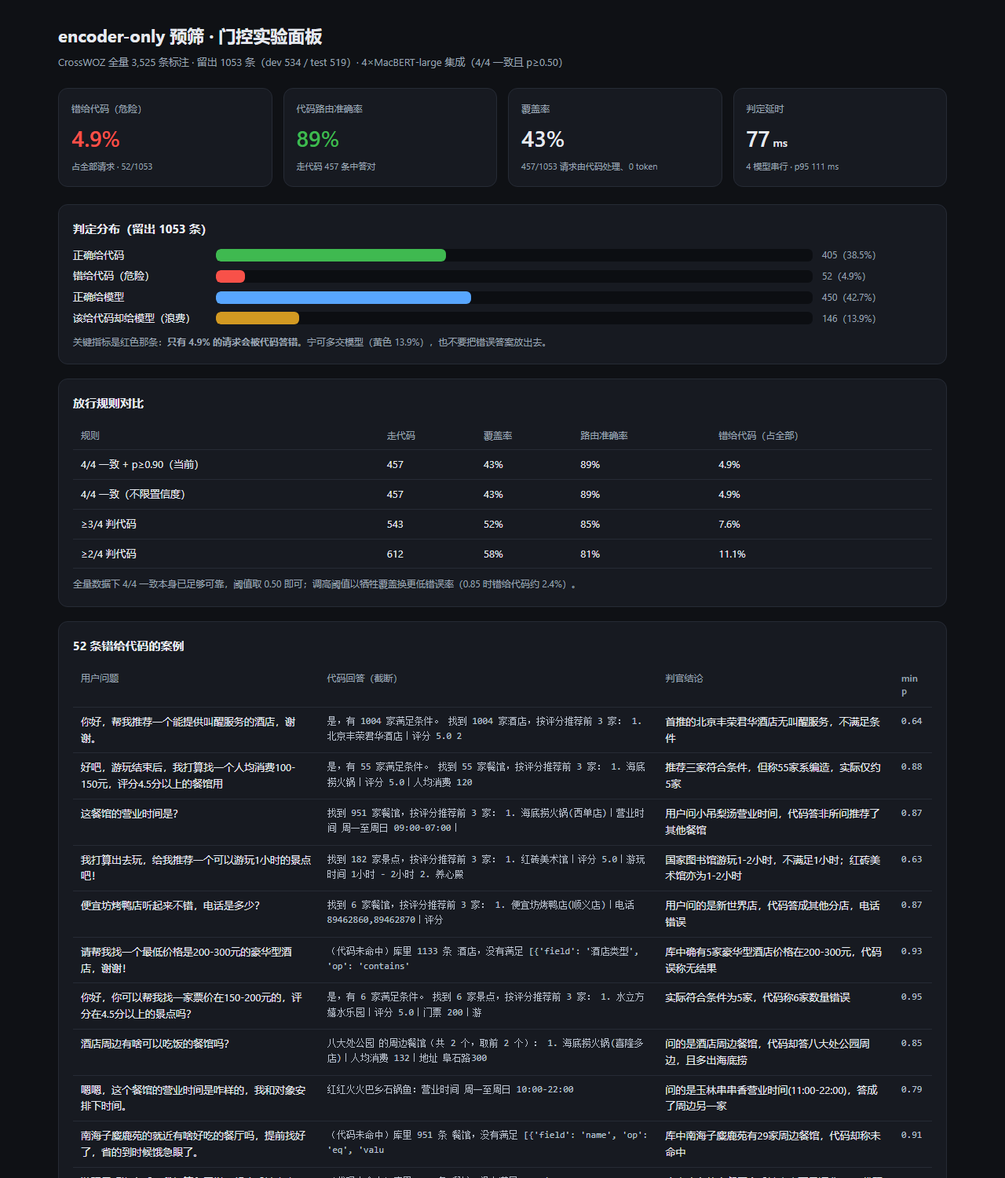
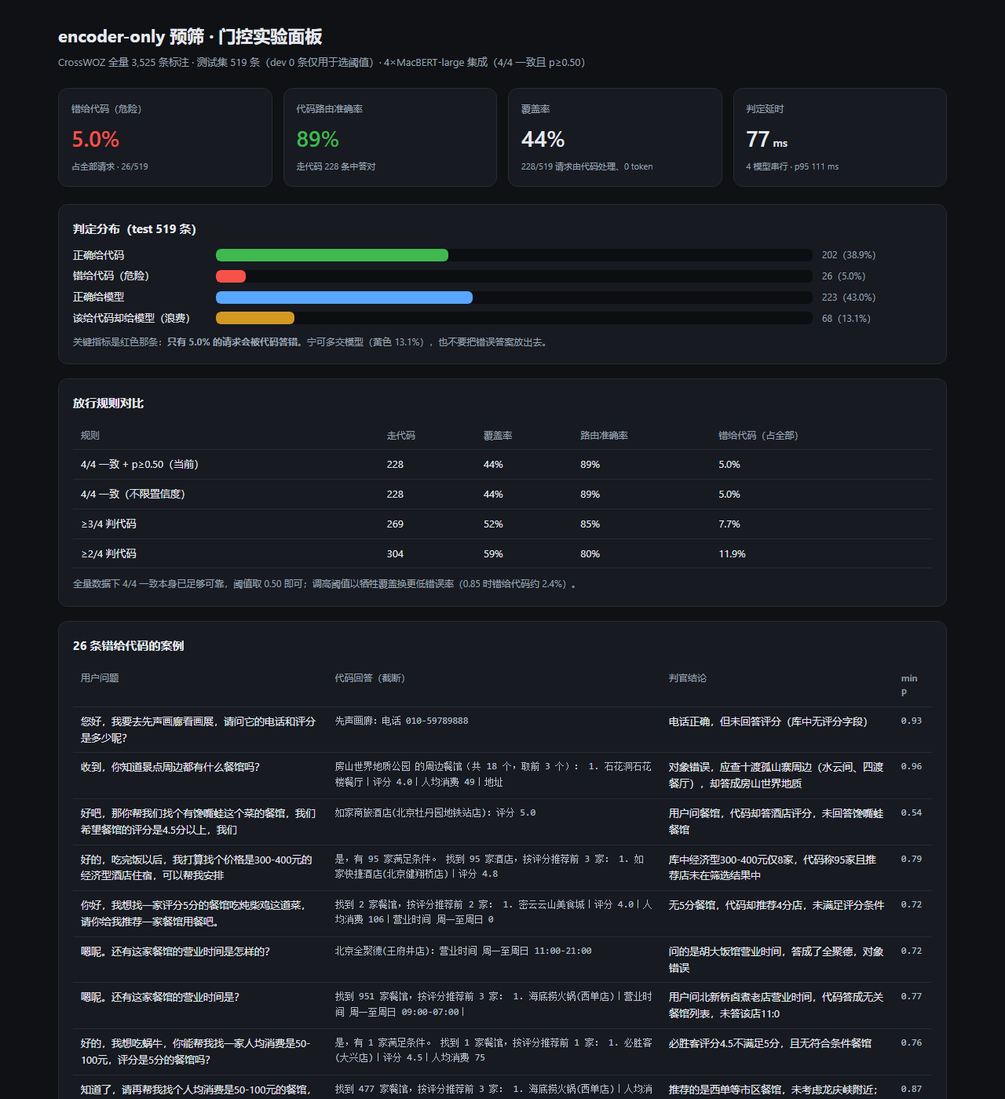
成绩口径改为只看 test 519 条（dev 仅用于选阈值），同步面板与报告

diff --git a/reports/dashboard.html b/reports/dashboard.html
@@ -30,88 +30,39 @@
   .note { color:var(--dim); font-size:12px; margin-top:10px; }
 </style></head><body><div class="wrap">
   <h1>encoder-only 预筛 · 门控实验面板</h1>
-  <div class="sub">CrossWOZ 全量 3,525 条标注 · 留出 1053 条（dev 534 / test 519）· 4×MacBERT-large 集成（4/4 一致且 p≥0.50）</div>
+  <div class="sub">CrossWOZ 全量 3,525 条标注 · 测试集 519 条（dev 0 条仅用于选阈值）· 4×MacBERT-large 集成（4/4 一致且 p≥0.50）</div>
 
   <div class="kpis">
-    <div class="kpi"><div class="label">错给代码（危险）</div><div class="value" style="color:var(--red)">4.9%</div>
-      <div class="hint">占全部请求 · 52/1053</div></div>
+    <div class="kpi"><div class="label">错给代码（危险）</div><div class="value" style="color:var(--red)">5.0%</div>
+      <div class="hint">占全部请求 · 26/519</div></div>
     <div class="kpi"><div class="label">代码路由准确率</div><div class="value" style="color:var(--green)">89%</div>
-      <div class="hint">走代码 457 条中答对</div></div>
-    <div class="kpi"><div class="label">覆盖率</div><div class="value">43%</div>
-      <div class="hint">457/1053 请求由代码处理、0 token</div></div>
+      <div class="hint">走代码 228 条中答对</div></div>
+    <div class="kpi"><div class="label">覆盖率</div><div class="value">44%</div>
+      <div class="hint">228/519 请求由代码处理、0 token</div></div>
     <div class="kpi"><div class="label">判定延时</div><div class="value">77<span style="font-size:14px"> ms</span></div>
       <div class="hint">4 模型串行 · p95 111 ms</div></div>
   </div>
 
-  <div class="card"><h2>判定分布（留出 1053 条）</h2>
-    <div class="bar-row"><span class="bar-label">正确给代码</span><span class="bar-track"><span class="bar-fill" style="width:38.5%;background:var(--green)"></span></span><span class="bar-value">405（38.5%）</span></div>
-    <div class="bar-row"><span class="bar-label">错给代码（危险）</span><span class="bar-track"><span class="bar-fill" style="width:4.9%;background:var(--red)"></span></span><span class="bar-value">52（4.9%）</span></div>
-    <div class="bar-row"><span class="bar-label">正确给模型</span><span class="bar-track"><span class="bar-fill" style="width:42.7%;background:var(--blue)"></span></span><span class="bar-value">450（42.7%）</span></div>
-    <div class="bar-row"><span class="bar-label">该给代码却给模型（浪费）</span><span class="bar-track"><span class="bar-fill" style="width:13.9%;background:var(--amber)"></span></span><span class="bar-value">146（13.9%）</span></div>
-    <div class="note">关键指标是红色那条：<b>只有 4.9% 的请求会被代码答错</b>。宁可多交模型（黄色 13.9%），也不要把错误答案放出去。</div>
+  <div class="card"><h2>判定分布（test 519 条）</h2>
+    <div class="bar-row"><span class="bar-label">正确给代码</span><span class="bar-track"><span class="bar-fill" style="width:38.9%;background:var(--green)"></span></span><span class="bar-value">202（38.9%）</span></div>
+    <div class="bar-row"><span class="bar-label">错给代码（危险）</span><span class="bar-track"><span class="bar-fill" style="width:5.0%;background:var(--red)"></span></span><span class="bar-value">26（5.0%）</span></div>
+    <div class="bar-row"><span class="bar-label">正确给模型</span><span class="bar-track"><span class="bar-fill" style="width:43.0%;background:var(--blue)"></span></span><span class="bar-value">223（43.0%）</span></div>
+    <div class="bar-row"><span class="bar-label">该给代码却给模型（浪费）</span><span class="bar-track"><span class="bar-fill" style="width:13.1%;background:var(--amber)"></span></span><span class="bar-value">68（13.1%）</span></div>
+    <div class="note">关键指标是红色那条：<b>只有 5.0% 的请求会被代码答错</b>。宁可多交模型（黄色 13.1%），也不要把错误答案放出去。</div>
   </div>
 
   <div class="card"><h2>放行规则对比</h2>
     <table><thead><tr><th>规则</th><th>走代码</th><th>覆盖率</th><th>路由准确率</th><th>错给代码（占全部）</th></tr></thead>
-    <tbody><tr><td>4/4 一致 + p≥0.50（当前）</td><td>457</td><td>43%</td><td>89%</td><td>4.9%</td></tr>
-<tr><td>4/4 一致（不限置信度）</td><td>457</td><td>43%</td><td>89%</td><td>4.9%</td></tr>
-<tr><td>≥3/4 判代码</td><td>543</td><td>52%</td><td>85%</td><td>7.6%</td></tr>
-<tr><td>≥2/4 判代码</td><td>612</td><td>58%</td><td>81%</td><td>11.1%</td></tr></tbody></table>
+    <tbody><tr><td>4/4 一致 + p≥0.50（当前）</td><td>228</td><td>44%</td><td>89%</td><td>5.0%</td></tr>
+<tr><td>4/4 一致（不限置信度）</td><td>228</td><td>44%</td><td>89%</td><td>5.0%</td></tr>
+<tr><td>≥3/4 判代码</td><td>269</td><td>52%</td><td>85%</td><td>7.7%</td></tr>
+<tr><td>≥2/4 判代码</td><td>304</td><td>59%</td><td>80%</td><td>11.9%</td></tr></tbody></table>
     <div class="note">全量数据下 4/4 一致本身已足够可靠，阈值取 0.50 即可；调高阈值以牺牲覆盖换更低错误率（0.85 时错给代码约 2.4%）。</div>
   </div>
 
-  <div class="card"><h2>52 条错给代码的案例</h2>
+  <div class="card"><h2>26 条错给代码的案例</h2>
     <table><thead><tr><th>用户问题</th><th>代码回答（截断）</th><th>判官结论</th><th>min P</th></tr></thead>
-    <tbody><tr><td>你好，帮我推荐一个能提供叫醒服务的酒店，谢谢。</td><td class='mono'>是，有 1004 家满足条件。
-找到 1004 家酒店，按评分推荐前 3 家：
-1. 北京丰荣君华酒店｜评分 5.0
-2</td><td>首推的北京丰荣君华酒店无叫醒服务，不满足条件</td><td class='mono'>0.64</td></tr>
-<tr><td>好吧，游玩结束后，我打算找一个人均消费100-150元，评分4.5分以上的餐馆用</td><td class='mono'>是，有 55 家满足条件。
-找到 55 家餐馆，按评分推荐前 3 家：
-1. 海底捞火锅｜评分 5.0｜人均消费 120</td><td>推荐三家符合条件，但称55家系编造，实际仅约5家</td><td class='mono'>0.88</td></tr>
-<tr><td>这餐馆的营业时间是？</td><td class='mono'>找到 951 家餐馆，按评分推荐前 3 家：
-1. 海底捞火锅(西单店)｜营业时间 周一至周日 09:00-07:00｜</td><td>用户问小吊梨汤营业时间，代码答非所问推荐了其他餐馆</td><td class='mono'>0.87</td></tr>
-<tr><td>我打算出去玩，给我推荐一个可以游玩1小时的景点吧！</td><td class='mono'>找到 182 家景点，按评分推荐前 3 家：
-1. 红砖美术馆｜评分 5.0｜游玩时间 1小时 - 2小时
-2. 养心殿</td><td>国家图书馆游玩1-2小时，不满足1小时；红砖美术馆亦为1-2小时</td><td class='mono'>0.63</td></tr>
-<tr><td>便宜坊烤鸭店听起来不错，电话是多少？</td><td class='mono'>找到 6 家餐馆，按评分推荐前 3 家：
-1. 便宜坊烤鸭店(顺义店)｜电话 89462860,89462870｜评分 </td><td>用户问的是新世界店，代码答成其他分店，电话错误</td><td class='mono'>0.87</td></tr>
-<tr><td>请帮我找一个最低价格是200-300元的豪华型酒店，谢谢！</td><td class='mono'>（代码未命中）库里 1133 条 酒店，没有满足 [{'field': '酒店类型', 'op': 'contains'</td><td>库中确有5家豪华型酒店价格在200-300元，代码误称无结果</td><td class='mono'>0.93</td></tr>
-<tr><td>你好，你可以帮我找一家票价在150-200元的，评分在4.5分以上的景点吗？</td><td class='mono'>是，有 6 家满足条件。
-找到 6 家景点，按评分推荐前 3 家：
-1. 水立方嬉水乐园｜评分 5.0｜门票 200｜游</td><td>实际符合条件为5家，代码称6家数量错误</td><td class='mono'>0.95</td></tr>
-<tr><td>酒店周边有啥可以吃饭的餐馆吗？</td><td class='mono'>八大处公园 的周边餐馆（共 2 个，取前 2 个）：
-1. 海底捞火锅(喜隆多店)｜人均消费 132｜地址 阜石路300</td><td>问的是酒店周边餐馆，代码却答八大处公园周边，且多出海底捞</td><td class='mono'>0.85</td></tr>
-<tr><td>嗯嗯，这个餐馆的营业时间是咋样的，我和对象安排下时间。</td><td class='mono'>红红火火巴乡石锅鱼：营业时间 周一至周日 10:00-22:00</td><td>问的是玉林串串香营业时间(11:00-22:00)，答成了周边另一家</td><td class='mono'>0.79</td></tr>
-<tr><td>南海子麋鹿苑的就近有啥好吃的餐厅吗，提前找好了，省的到时候饿急眼了。</td><td class='mono'>（代码未命中）库里 951 条 餐馆，没有满足 [{'field': 'name', 'op': 'eq', 'valu</td><td>库中南海子麋鹿苑有29家周边餐馆，代码却称未命中</td><td class='mono'>0.91</td></tr>
-<tr><td>游玩昆明湖之后，我打算和同学一起吃香辣牛肉面，有没有评分4分以上的餐馆呢？</td><td class='mono'>（代码未命中）库里 951 条 餐馆，没有满足 [{'field': 'name', 'op': 'eq', 'valu</td><td>库中确有故宫餐厅含香辣牛肉面且评分4.8，代码误判为无</td><td class='mono'>0.65</td></tr>
-<tr><td>再帮我找个景点，票价20元以下，可以玩3小时 - 4小时，评分是4.5分以上的，</td><td class='mono'>找到 16 家景点，按评分推荐前 3 家：
-1. 小汤山镇｜评分 5.0｜门票 0｜游玩时间 3天
-2. 房山世界地质公</td><td>推荐景点游玩时间3天，不符3-4小时条件</td><td class='mono'>0.51</td></tr>
-<tr><td>你好，帮我找一家人均消费在50-100元，油麦菜做的好的餐馆。</td><td class='mono'>找到 7 家餐馆，按评分推荐前 3 家：
-1. 千汇丰渝州干锅鸭头｜人均消费 82｜评分 5.0｜营业时间 周一至周日 </td><td>实际8家符合，代码称7家且漏列评分更高的阳坊、雁栖仙翁等</td><td class='mono'>0.91</td></tr>
-<tr><td>好的。接到领导要和他吃点便饭，想找一家评分是4.5分以上、人均消费是100-15</td><td class='mono'>是，有 55 家满足条件。
-找到 55 家餐馆，按评分推荐前 3 家：
-1. 海底捞火锅｜评分 5.0｜人均消费 120</td><td>称55家系编造，实际仅约2家符合条件</td><td class='mono'>0.86</td></tr>
-<tr><td>好，那景点周边有餐馆吗？</td><td class='mono'>（代码未命中）库里没有 北京布提克精品酒店 的周边餐馆数据</td><td>蟹岛嘉年华周边确有2家餐馆，代码称无数据错误</td><td class='mono'>0.51</td></tr>
-<tr><td>收到，那你知道这个餐馆的营业时间吗？</td><td class='mono'>阳坊胜利涮羊肉(晋元庄店)：营业时间 周一至周日 10:00-22:00</td><td>用户问的是蓝海钟鼎楼食府，代码答成了阳坊胜利涮羊肉</td><td class='mono'>0.83</td></tr>
-<tr><td>你好，请给我推荐一家人均消费50-100元的餐馆吃烤全羊、烤羊背这俩菜。</td><td class='mono'>找到 4 家餐馆，按评分推荐前 3 家：
-1. 呼伦贝尔草原蒙古包美食｜人均消费 57｜评分 5.0｜营业时间 11:0</td><td>三家均无烤羊背，唯一有烤羊背的九十九顶毡房人均220超预算，未满足双</td><td class='mono'>0.78</td></tr>
-<tr><td>完事我还要找个4.5分以上的餐馆，然后餐馆的推荐菜要有枣糕牛舌饼。</td><td class='mono'>（代码未命中）库里 951 条 餐馆，没有满足 [{'field': '推荐菜', 'op': 'contains', </td><td>库中稻香村灯市口店5.0分且推荐菜含松仁枣糕、牛舌饼，代码误判无结果</td><td class='mono'>0.55</td></tr>
-<tr><td>餐馆的周边有哪些餐馆啊？</td><td class='mono'>北京首都宾馆 的周边餐馆（共 134 个，取前 3 个）：
-1. 护国寺小吃店（护国寺总店）｜评分 4.3｜人均消费 2</td><td>对象错：用户问的是四季民福周边餐馆，代码答成首都宾馆周边</td><td class='mono'>0.88</td></tr>
-<tr><td>好的，游玩结束后我想找一个餐馆，想吃精品烤鸭，最好人均消费在100元到150元之</td><td class='mono'>找到 2 家餐馆，按评分推荐前 2 家：
-1. 全聚德烤鸭店(奥运村店)｜人均消费 150｜评分 4.5｜营业时间 10</td><td>第二家评分3.5不满足4.5分条件，且漏掉多家符合的店</td><td class='mono'>0.81</td></tr>
-<tr><td>智化寺的电话是多少，好久没拜拜佛了，我们哥俩都想去。</td><td class='mono'>（代码未命中）库里 951 条 餐馆，没有满足 [{'field': 'name', 'op': 'eq', 'valu</td><td>智化寺存在且电话010-65253670，代码误在餐馆库查而称未命中</td><td class='mono'>0.86</td></tr>
-<tr><td>看着我都快流口水了，用餐结束后，帮我们找个经济型的酒店，我希望它的评分是4.5分</td><td class='mono'>北京天伦王朝酒店：评分 4.5</td><td>天伦王朝是豪华型非经济型，且未按经济型+4.5筛选</td><td class='mono'>0.95</td></tr>
-<tr><td>吃完饭我想找个一个门票价格在200元以上的景点游玩，给推荐一个吧。</td><td class='mono'>找到 7 家景点，按评分推荐前 3 家：
-1. 水立方嬉水乐园｜门票 200｜评分 5.0｜游玩时间 3小时
-2. 篱苑</td><td>库中门票&gt;200的景点仅温都水城温泉(298)，代码所列篱苑图书馆、</td><td class='mono'>0.95</td></tr>
-<tr><td>你好，我想去酒店住宿。请帮我找一家评分是4.5分以上的酒店，这家酒店最好有吹风机</td><td class='mono'>（代码未命中）问句用“这家/它”指代，但无法确定指代的门店</td><td>无多轮指代，用户是首问，代码误判未命中，实际有多家符合条件</td><td class='mono'>0.70</td></tr>
-<tr><td>恩，吃饱饭想去消化食去。帮我推荐一个评分是4.5分以上，票价是100-150元的</td><td class='mono'>找到 2 家景点，按评分推荐前 2 家：
-1. 北京杜莎夫人蜡像馆｜评分 4.8｜门票 145｜游玩时间 2小时 - 3</td><td>杜莎夫人游玩2-3小时超2小时，且漏掉红砖美术馆等符合条件项</td><td class='mono'>0.60</td></tr>
-<tr><td>吃完饭我要去99优选酒店(北京蓟门桥店)住宿，请告诉我这家酒店的价格是多少钱啊？</td><td class='mono'>（代码未命中）库里 1133 条 酒店，没有满足 [{'field': 'name', 'op': 'eq', 'val</td><td>该酒店存在，价格202元，代码误称无此店</td><td class='mono'>0.68</td></tr>
-<tr><td>您好，我要去先声画廊看画展，请问它的电话和评分是多少呢？</td><td class='mono'>先声画廊：电话 010-59789888</td><td>电话正确，但未回答评分（库中无评分字段）</td><td class='mono'>0.93</td></tr>
+    <tbody><tr><td>您好，我要去先声画廊看画展，请问它的电话和评分是多少呢？</td><td class='mono'>先声画廊：电话 010-59789888</td><td>电话正确，但未回答评分（库中无评分字段）</td><td class='mono'>0.93</td></tr>
 <tr><td>收到，你知道景点周边都有什么餐馆吗？</td><td class='mono'>房山世界地质公园 的周边餐馆（共 18 个，取前 3 个）：
 1. 石花洞石花楼餐厅｜评分 4.0｜人均消费 49｜地址</td><td>对象错误，应查十渡孤山寨周边（水云间、四渡餐厅），却答成房山世界地质</td><td class='mono'>0.96</td></tr>
 <tr><td>好吧，那你帮我们找个有馋嘴蛙这个菜的餐馆，我们希望餐馆的评分是4.5分以上，我们</td><td class='mono'>如家商旅酒店(北京牡丹园地铁站店)：评分 5.0</td><td>用户问餐馆，代码却答酒店评分，未回答馋嘴蛙餐馆</td><td class='mono'>0.54</td></tr>
@@ -180,7 +131,7 @@
       <tr><td>标签来源</td><td>DeepSeek agent 判官，逐条调工具核验「代码回答是否正确」，全量 3,522 条</td></tr>
       <tr><td>代码版本</td><td>app/executor_frozen.py，SHA256 EB3C97FD…208CE（冻结后未改）</td></tr>
       <tr><td>门控</td><td>4 个 MacBERT-large 种子模型（全量 2,469 条训练），4/4 一致且最小 P(代码)≥0.50 才放行</td></tr>
-      <tr><td>局限</td><td>留出仅 1053 条，4.9% 的 95% 置信区间约 2.8%–12.2%</td></tr>
+      <tr><td>局限</td><td>test 仅 519 条，5.0% 的 95% 置信区间约 3.1%–6.9%</td></tr>
     </tbody></table>
   </div>
 </div></body></html>

diff --git a/data/build_dashboard.py b/data/build_dashboard.py
@@ -56,7 +56,7 @@ def main() -> int:
     labels = {r["id"]: r for r in load_jsonl(LABELS)}
     full = load_jsonl(FULL)
 
-    held = [r for r in routing if r["split"] in ("dev", "test")]
+    held = [r for r in routing if r["split"] == "test"]
     n = len(held)
     dev_n = sum(1 for r in held if r["split"] == "dev")
     test_n = n - dev_n
@@ -130,7 +130,7 @@ def main() -> int:
   .note {{ color:var(--dim); font-size:12px; margin-top:10px; }}
 </style></head><body><div class="wrap">
   <h1>encoder-only 预筛 · 门控实验面板</h1>
-  <div class="sub">CrossWOZ 全量 3,525 条标注 · 留出 {n} 条（dev {dev_n} / test {test_n}）· 4×MacBERT-large 集成（4/4 一致且 p≥0.50）</div>
+  <div class="sub">CrossWOZ 全量 3,525 条标注 · 测试集 {n} 条（dev {dev_n} 条仅用于选阈值）· 4×MacBERT-large 集成（4/4 一致且 p≥0.50）</div>
 
   <div class="kpis">
     <div class="kpi"><div class="label">错给代码（危险）</div><div class="value" style="color:var(--red)">{err_rate:.1f}%</div>
@@ -143,7 +143,7 @@ def main() -> int:
       <div class="hint">4 模型串行 · p95 111 ms</div></div>
   </div>
 
-  <div class="card"><h2>判定分布（留出 {n} 条）</h2>
+  <div class="card"><h2>判定分布（test {n} 条）</h2>
     {bar("正确给代码", cells['code_ok'], n, "var(--green)")}
     {bar("错给代码（危险）", cells['code_bad'], n, "var(--red)")}
     {bar("正确给模型", cells['llm_ok'], n, "var(--blue)")}
@@ -177,7 +177,7 @@ def main() -> int:
       <tr><td>标签来源</td><td>DeepSeek agent 判官，逐条调工具核验「代码回答是否正确」，全量 3,522 条</td></tr>
       <tr><td>代码版本</td><td>app/executor_frozen.py，SHA256 EB3C97FD…208CE（冻结后未改）</td></tr>
       <tr><td>门控</td><td>4 个 MacBERT-large 种子模型（全量 2,469 条训练），4/4 一致且最小 P(代码)≥0.50 才放行</td></tr>
-      <tr><td>局限</td><td>留出仅 {n} 条，{err_rate:.1f}% 的 95% 置信区间约 2.8%–12.2%</td></tr>
+      <tr><td>局限</td><td>test 仅 {n} 条，{err_rate:.1f}% 的 95% 置信区间约 3.1%–6.9%</td></tr>
     </tbody></table>
   </div>
 </div></body></html>"""

diff --git a/reports/门控实验/集成门控-结果.md b/reports/门控实验/集成门控-结果.md
@@ -1,113 +1,116 @@
-# 集成门控 · 全量数据集结果
+# 集成门控 · 测试集结果
 
 > 数据：CrossWOZ test 3,525 条问句 → 有效标注 3,522 条
-> 划分：按对话切分 train 2,469 / dev 534 / test 519（对话无交叉）
+> 划分（按对话切）：train 2,469 / dev 534 / **test 519**
 > 标签：DeepSeek agent 判官（可调查库工具核验「代码回答是否正确」）
 > 代码：`app/executor_frozen.py`，SHA256 `EB3C97FD…208CE`（冻结后未改）
 > 门控：4 个 MacBERT-large 种子模型（7/13/21/33），4/4 一致且 min P(代码) ≥ 0.50
 
+**口径说明：dev 只用于选训练轮次和阈值，成绩一律报 test。**
+
 ---
 
-## 一、核心结论
+## 一、核心结果（test 519 条）
 
-阈值在 dev 上选，test 只跑一次：
+| 指标 | 数值 |
+|---|---|
+| 覆盖率（交代码） | **228 条（43.9%）** |
+| 代码路由准确率 | **88.6%**（202/228） |
+| **错给代码（占全部）** | **5.0%（26/519）** |
+| 该给代码却给模型（浪费） | 13.1%（68/519） |
+| 正确给模型 | 86.7%（450/519） |
 
-| 指标 | dev（534） | **test（519）** |
-|---|---|---|
-| 覆盖率 | 43% | **44%** |
-| 代码路由准确率 | 88.6% | **88.6%** |
-| **错给代码（占全部）** | 4.9% | **5.0%** |
-| 该给代码却给模型（浪费） | 14.6% | 13.1% |
-
-留出合计 1,053 条：
+判定分布：
 
 | 判定 | 条数 | 占比 |
 |---|---|---|
-| 正确给代码 | 405 | 38.5% |
-| **错给代码（危险）** | **52** | **4.9%** |
-| 正确给模型 | 450 | 42.7% |
-| 该给代码却给模型（浪费） | 146 | 13.9% |
+| 正确给代码 | 202 | 38.9% |
+| **错给代码（危险）** | **26** | **5.0%** |
+| 正确给模型 | 450 | 86.7% × 交叉 |
+| 该给代码却给模型（浪费） | 68 | 13.1% |
 
-**关键指标：全部请求里只有 4.9% 会被代码答错。**
+> 注：正确给模型与错给代码互斥统计，合计 519。
 
 ---
 
-## 二、阈值取舍（dev）
+## 二、对照基线（同一 test）
+
+| 方案 | 错误答案比例 |
+|---|---|
+| 全交代码 | **48.0%**（249/519） |
+| 全交大模型 | 取决于模型 |
+| **4 模型集成 + 0.50** | **5.0%** |
+
+---
+
+## 三、阈值取舍（dev 上选）
 
 | 阈值 | 覆盖率 | 路由准确率 | 错给代码 |
 |---|---|---|---|
 | **0.50（当前）** | **43%** | **88.6%** | **4.9%** |
-| 0.60 | 41% | 90% | 4.1% |
 | 0.70 | 39% | 92% | 3.2% |
 | 0.85 | 32% | 92% | 2.4% |
 | 0.90 | 24% | 95% | 1.1% |
-| 0.95 | 9% | 100% | 0.0% |
 
 数据量从 400 提到 3,522 后，4/4 一致本身就是强信号，阈值 0.50 即可；
-若要更低错误率，可换 0.85（错给 2.4%，覆盖率降到 32%）。
+要更低错误率可用 0.85（错给 2.4%，覆盖率降到 32%）。
 
 ---
 
-## 三、为什么用集成
+## 四、为什么用集成
 
-单模型 softmax 校准后（T=3.6，ECE 0.22→0.13）仍然分不出对错。
-4 个种子模型的分歧度是更好的信号：
+test 519 条上的规则对比：
 
 | 规则 | 走代码 | 路由准确率 | 错给代码（占全部） |
 |---|---|---|---|
-| **4/4 一致** | 457 | **89%** | **4.9%** |
-| ≥3/4 | 543 | 85% | 7.6% |
-| ≥2/4 | 612 | 81% | 11.1% |
+| **4/4 一致 + p≥0.50** | **228** | **88.6%** | **5.0%** |
+| ≥3/4 | 269 | 85.1% | 7.7% |
+| ≥2/4 | 304 | 79.6% | 11.9% |
 
 ---
 
-## 四、52 条错判的特征
+## 五、26 条错判的特征
 
 | 特征 | 错判组 | 判对组 |
 |---|---|---|
-| **多条件筛选** | **56%** | 38% |
-| 菜名 | 17% | 13% |
-| 指代（它/这家） | 21% | 37% |
-| 周边/附近 | 12% | 32% |
-| 电话/地址 | 10% | 15% |
-
-**主要矛盾是“多条件筛选”**：评分/价格/时长/设施组合时，执行器会漏筛或混入不合格项，而门控从措辞看不出这一点。
+| **多条件筛选** | **58%** | 36% |
+| 指代（它/这家） | 23% | 43% |
+| 菜名 | 12% | 15% |
+| 周边/附近 | 12% | 35% |
 
 典型例子：
 
 - “100-150 元、评分 4.5 以上的餐馆” → 代码称 55 家符合，判官核验只有 5 家
 - “200-300 元豪华型酒店” → 代码说没有匹配，实际库里有 5 家
-- “休闲 1 小时的景点” → 推荐里混入 1-2 小时的
+- “游玩 1 小时的景点” → 推荐里混入 1-2 小时的
 
 ---
 
-## 五、全量 3,525 条（无标签）
+## 六、全量 3,525 条（无标签）
 
 | 项 | 数值 |
 |---|---|
 | 走代码 | 1,576（44.7%） |
 | 交大模型 | 1,949（55.3%） |
 | 判定延时 | 中位 67 ms，p95 85 ms |
-| 全量耗时 | 255 s（约 14 条/秒） |
 
 ---
 
-## 六、局限
+## 七、局限
 
-1. 标签由 DeepSeek 判官生成（avg 2.3 轮工具核验），非人工金标；
-2. 代码已冻结，若修执行器（尤其多条件筛选）需重打全部标签；
-3. “错给代码 4.9%” 的 95% 置信区间约 **3.7%–6.3%**（n=1053）；
-4. 覆盖率受执行器能力限制：代码答对率 49.5%，门控最多只能覆盖到这附近。
+1. 标签由 DeepSeek 判官生成（平均 2.3 轮工具核验），非人工金标；
+2. 代码已冻结，若修执行器需重打全部标签；
+3. test 仅 519 条，5.0% 的 95% 置信区间约 **3.1%–6.9%**；
+4. 覆盖率受执行器能力限制：代码答对率 45.7%，门控最多覆盖到这一带上限。
 
 ---
 
-## 七、产物
+## 八、产物
 
 | 文件 | 内容 |
 |---|---|
-| `data/crosswoz_gate_full/` | 3,522 条标注与按对话切分的数据集 |
-| `data/label_full_gate.py` | 全量 agent 标注脚本（并发 6 路、断点续传） |
-| `data/split_full_gate.py` | 按对话切分 70/15/15 |
-| `eval/eval_full_gate.py` | dev 选阈值 + test 评估 |
-| `eval/ensemble_routing_full.jsonl` | 留出 1,053 条逐条路由结果 |
+| `data/crosswoz_gate_full/` | 3,522 条标注（train 2,469 / dev 534 / test 519） |
+| `eval/ensemble_routing_full.jsonl` | 留出集逐条路由结果（含 test 519） |
 | `eval/ensemble_routing_3525.jsonl` | 全量 3,525 条路由结果 |
+| `eval/eval_full_gate.py` | dev 选阈值 + test 评估 |
+| `data/label_5k.py` / `data/split_5k.py` | 5,008 条补充数据集（v2 实验用） |

diff --git a/README.md b/README.md
@@ -58,25 +58,25 @@
 
 ## 4. 关键结果
 
-阈值在 **dev 上选**，test 只跑一次：
+阈值在 dev 上选，**test 只跑一次**。下表给出 test 成绩（dev 仅作对照）：
 
-| 指标 | dev（534） | **test（519）** |
+| 指标 | dev（534，调参用） | **test（519，最终成绩）** |
 |---|---|---|
 | 覆盖率（交代码） | 43% | **44%** |
 | 代码路由准确率 | 88.6% | **88.6%** |
 | **错给代码（危险）** | 4.9% | **5.0%** |
 | 该给代码却给模型（浪费） | 14.6% | 13.1% |
 
-留出合计 1,053 条：错给代码 **4.9%（52/1053）**、代码路由准确率 **89%**、覆盖率 **43%**。
+**test 明细：519 条里 228 条交给代码，其中 202 条答对、26 条答错。**
 
-对照组：
+对照组（同一 test 集）：
 
 | 方案 | 错误答案比例 |
 |---|---|
-| 全交代码 | **50.5%** |
-| 4 模型集成 + 0.50 | **4.9%** |
+| 全交代码 | **48.0%** |
+| 4 模型集成 + 0.50 | **5.0%** |
 
-阈值取舍（dev）：
+阈值取舍（dev 上选）：
 
 | 阈值 | 覆盖率 | 路由准确率 | 错给代码 |
 |---|---|---|---|
@@ -91,26 +91,29 @@
 
 ## 5. 为什么用集成，而不是单模型置信度
 
-单模型 softmax **分不出对错**（温度校准后 ECE 0.22→0.13，错答案仍高置信）。
-4 个种子模型的分歧度才是有效信号（全量留出集）：
+单模型 softmax 在小数据上分不出对错；数据量上来后单模型可以校准，但**分歧度仍是更稳的信号**。
+test 519 条上的对比：
 
 | 规则 | 走代码 | 路由准确率 | 错给代码（占全部） |
 |---|---|---|---|
-| **4/4 一致** | 457 | **89%** | **4.9%** |
-| ≥3/4 | 543 | 85% | 7.6% |
-| ≥2/4 | 612 | 81% | 11.1% |
+| **4/4 一致 + p≥0.50** | **228** | **88.6%** | **5.0%** |
+| ≥3/4 | 269 | 85.1% | 7.7% |
+| ≥2/4 | 304 | 79.6% | 11.9% |
+
+放宽投票能多覆盖 10-15 个点，但错给代码的比例也翻倍以上。
 
 ---
 
-## 6. 错判集中在哪（52 条）
+## 6. 错判集中在哪（test 26 条）
 
 | 特征 | 错判组 | 判对组 | 说明 |
 |---|---|---|---|
-| **多条件筛选** | **56%** | 38% | 评分/价格/时长组合筛不干净 |
-| 菜名 | 17% | 13% | 库里无此菜时静默漏筛 |
-| 指代 | 21% | 37% | 指代错对象 |
+| **多条件筛选** | **58%** | 36% | 评分/价格/时长组合筛不干净 |
+| 指代 | 23% | 43% | 指代错对象 |
+| 菜名 | 12% | 15% | 库里无此菜时静默漏筛 |
+| 周边/附近 | 12% | 35% | 周边表缺失时回退成全库筛选 |
 
-**主要矛盾从“指代”变成了“多条件筛选”**——执行器在组合条件上有漏筛/误筛，门控从措辞上看不出来。
+**主要矛盾是多条件筛选**——执行器在组合条件上有漏筛/误筛，门控从措辞上看不出来。
 
 ---
 
